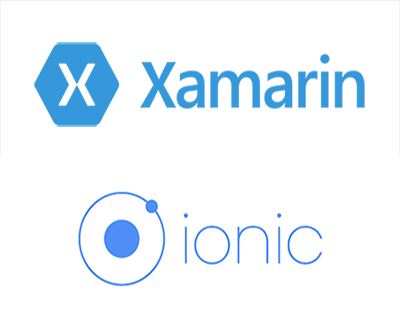
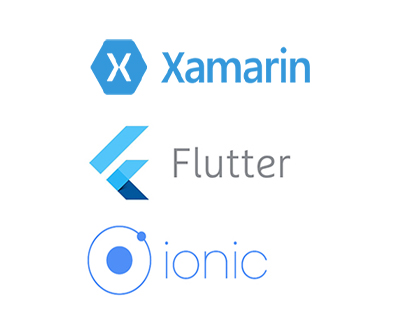
ajout projet d'équipe

diff --git a/index.html b/index.html
@@ -56,7 +56,7 @@
                             <i class="fas fa-mobile-alt fa-stack-1x fa-inverse"></i>
                         </span>
                     <h4 class="my-3">Spécialisation applications mobiles</h4>
-                    <p class="text-muted">Android, IOS (Swift), Flutter, Ionic et Xamarin.</p>
+                    <p class="text-muted">Android, IOS (Swift), PWA, Flutter, Ionic et Xamarin.</p>
                 </div>
                 <div class="col-md-4">
                     <span class="fa-stack fa-4x">
@@ -64,7 +64,7 @@
                             <i class="fas fa-database  fa-stack-1x fa-inverse"></i>
                         </span>
                     <h4 class="my-3">Logiciels de base de données</h4>
-                    <p class="text-muted"> MySQL, Access, MongoDB et SQLite.</p>
+                    <p class="text-muted"> MySQL, Access, MongoDB, Firebase et SQLite.</p>
                 </div>
                 <div class="col-md-4">
                     <span class="fa-stack fa-4x">
@@ -110,6 +110,21 @@
                 <h3 class="section-subheading text-muted">Projets créés pendant mon année de formation</h3>
             </div>
             <div class="row">
+                <div class="col-lg-4 col-sm-6 mb-4 mb-sm-0">
+                    <div class="portfolio-item">
+                        <a class="portfolio-link" data-toggle="modal" href="#portfolioModal2">
+                            <div class="portfolio-hover">
+                                <div class="portfolio-hover-content"><i class="fas fa-plus fa-3x"></i></div>
+                            </div>
+                            <img class="img-fluid" src="assets/img/portfolio/pwa.png" alt="" />
+                        </a>
+                        <div class="portfolio-caption">
+                            <div class="portfolio-caption-heading">Progressive Web App</div>
+                            <div class="portfolio-caption-subheading text-muted">Applications Multiplateformes</div>
+                        </div>
+                    </div>
+                </div>
+
                 <div class="col-lg-4 col-sm-6 mb-4">
                     <div class="portfolio-item">
                         <a class="portfolio-link" data-toggle="modal" href="#portfolioModal4">
@@ -124,6 +139,7 @@
                         </div>
                     </div>
                 </div>
+
                 <div class="col-lg-4 col-sm-6 mb-4">
                     <div class="portfolio-item">
                         <a class="portfolio-link" data-toggle="modal" href="#portfolioModal3">
@@ -166,20 +182,10 @@
                         </div>
                     </div>
                 </div>
-                <div class="col-lg-4 col-sm-6 mb-4 mb-sm-0">
-                    <div class="portfolio-item">
-                        <a class="portfolio-link" data-toggle="modal" href="#portfolioModal2">
-                            <div class="portfolio-hover">
-                                <div class="portfolio-hover-content"><i class="fas fa-plus fa-3x"></i></div>
-                            </div>
-                            <img class="img-fluid" src="assets/img/portfolio/FLUTTER.jpg" alt="" />
-                        </a>
-                        <div class="portfolio-caption">
-                            <div class="portfolio-caption-heading">Flutter</div>
-                            <div class="portfolio-caption-subheading text-muted">Applications Multiplateformes</div>
-                        </div>
-                    </div>
-                </div>
+
+
+
+
                 <div class="col-lg-4 col-sm-6">
                     <div class="portfolio-item">
                         <a class="portfolio-link" data-toggle="modal" href="#portfolioModal5">
@@ -189,7 +195,7 @@
                             <img class="img-fluid" src="assets/img/portfolio/mix.jpg" alt="" />
                         </a>
                         <div class="portfolio-caption">
-                            <div class="portfolio-caption-heading">Ionic</div>
+                            <div class="portfolio-caption-heading">Xamarin - Ionic - Flutter</div>
                             <div class="portfolio-caption-subheading text-muted">Applications Multiplateformes</div>
                         </div>
                     </div>
@@ -322,13 +328,14 @@
                         <div class="col-lg-8">
                             <div class="modal-body">
                                 <!-- Project Details Go Here-->
-                                <h2 class="text-uppercase">Projet Gym</h2>
-                                <p class="item-intro text-muted">Objectif : créér une application en utilisant Flutter </p>
-                                <img class="img-fluid d-block mx-auto" src="assets/img/portfolio/flutterApp.png" alt="" />
-                                <p>Cette application est composée de 3 pages. Une page qui permet à l'utilisateur sélectionner une catégorie, une autre qui permet d'obtenir une description détaillée des exercices et une dernière pour ajouter un exercice.</p>
+                                <h2 class="text-uppercase">Projet final - Gym&Cook</h2>
+                                <p class="item-intro text-muted">Objectif : créér une application en équipe. </p>
+                                <img class="img-fluid d-block mx-auto" src="assets/img/portfolio/projet final.jpg" alt="" />
+                                    <p>Cette application a été imaginée de A à Z par une équipe de 4 personnes. L'utilisateur peut en fonction d'un plan personnalisé, choisir des recettes et des exercices d'entrainements adaptés.</p>
+                                    <p> Lors de ce projet, j'étais Scrum-Master et en duo pour créer le Front-End.</p>
                                 <ul class="list-inline">
-                                    <li><b>Technologies utilisées : </b> Json et Flutter</li>
-                                    <li>Juillet 2020</li>
+                                    <li><b>Technologies utilisées : </b> Agile, UML, MongoDB, HTML, CSS, Javascript et Node.js</li>
+                                    <li>Novembre 2020</li>
                                     <li>Professeur: Antonio Tavares</li>
                                 </ul>
                                 <button class="btn btn-primary" data-dismiss="modal" type="button">
@@ -418,13 +425,13 @@
                                 <h2 class="text-uppercase">Projet Gym Xamarin</h2>
                                 <p class="item-intro text-muted">Objectif : créér une application en utilisant Xamarin </p>
                                 <img class="img-fluid d-block mx-auto" src="assets/img/portfolio/projet_XAM.jpg" alt="" />
-
-                                <p>Dans ce projet, j'ai travaillé avec les interfaces en XAMARIN-Forms.  </p>
+                                <p>Dans ce projet, j'ai travaillé avec les interfaces Xamarin-Forms. Le but du projet était d'envoyer des données d'une page à une autre et de créer une listView à partir d'une ObservableCollection.</p>
                                 <ul class="list-inline">
-                                    <li><b>Technologies utilisées : </b> Json et Xamarin</li>
+                                    <li><b>Technologies utilisées : </b> C# et Xamarin</li>
                                     <li>Août 2020</li>
                                     <li>Professeur: Antonio Tavares</li>
                                 </ul>
+                            </div>
                                 <div class="modal-body">
                                     <h2 class="text-uppercase">Projet Gym Ionic</h2>
                                     <p class="item-intro text-muted">Objectif : créér une application en utilisant Ionic </p>
@@ -436,6 +443,19 @@
                                         <li>Août 2020</li>
                                         <li>Professeur: Antonio Tavares</li>
                                     </ul>
+                                </div>
+                                <div class="modal-body">
+                                    <!-- Project Details Go Here-->
+                                    <h2 class="text-uppercase">Projet Gym Flutter</h2>
+                                    <p class="item-intro text-muted">Objectif : créér une application en utilisant Flutter </p>
+                                    <img class="img-fluid d-block mx-auto" src="assets/img/portfolio/flutterApp.png" alt="" />
+                                    <p>Cette application est composée de 3 pages. Une page qui permet à l'utilisateur sélectionner une catégorie, une autre qui permet d'obtenir une description détaillée des exercices et une dernière pour ajouter un exercice.</p>
+                                    <ul class="list-inline">
+                                        <li><b>Technologies utilisées : </b> Json et Flutter</li>
+                                        <li>Juillet 2020</li>
+                                        <li>Professeur: Antonio Tavares</li>
+                                    </ul>
+                                </div>
                                 <button class="btn btn-primary" data-dismiss="modal" type="button">
                                     <i class="fas fa-times mr-1"></i>
                                     Retour
